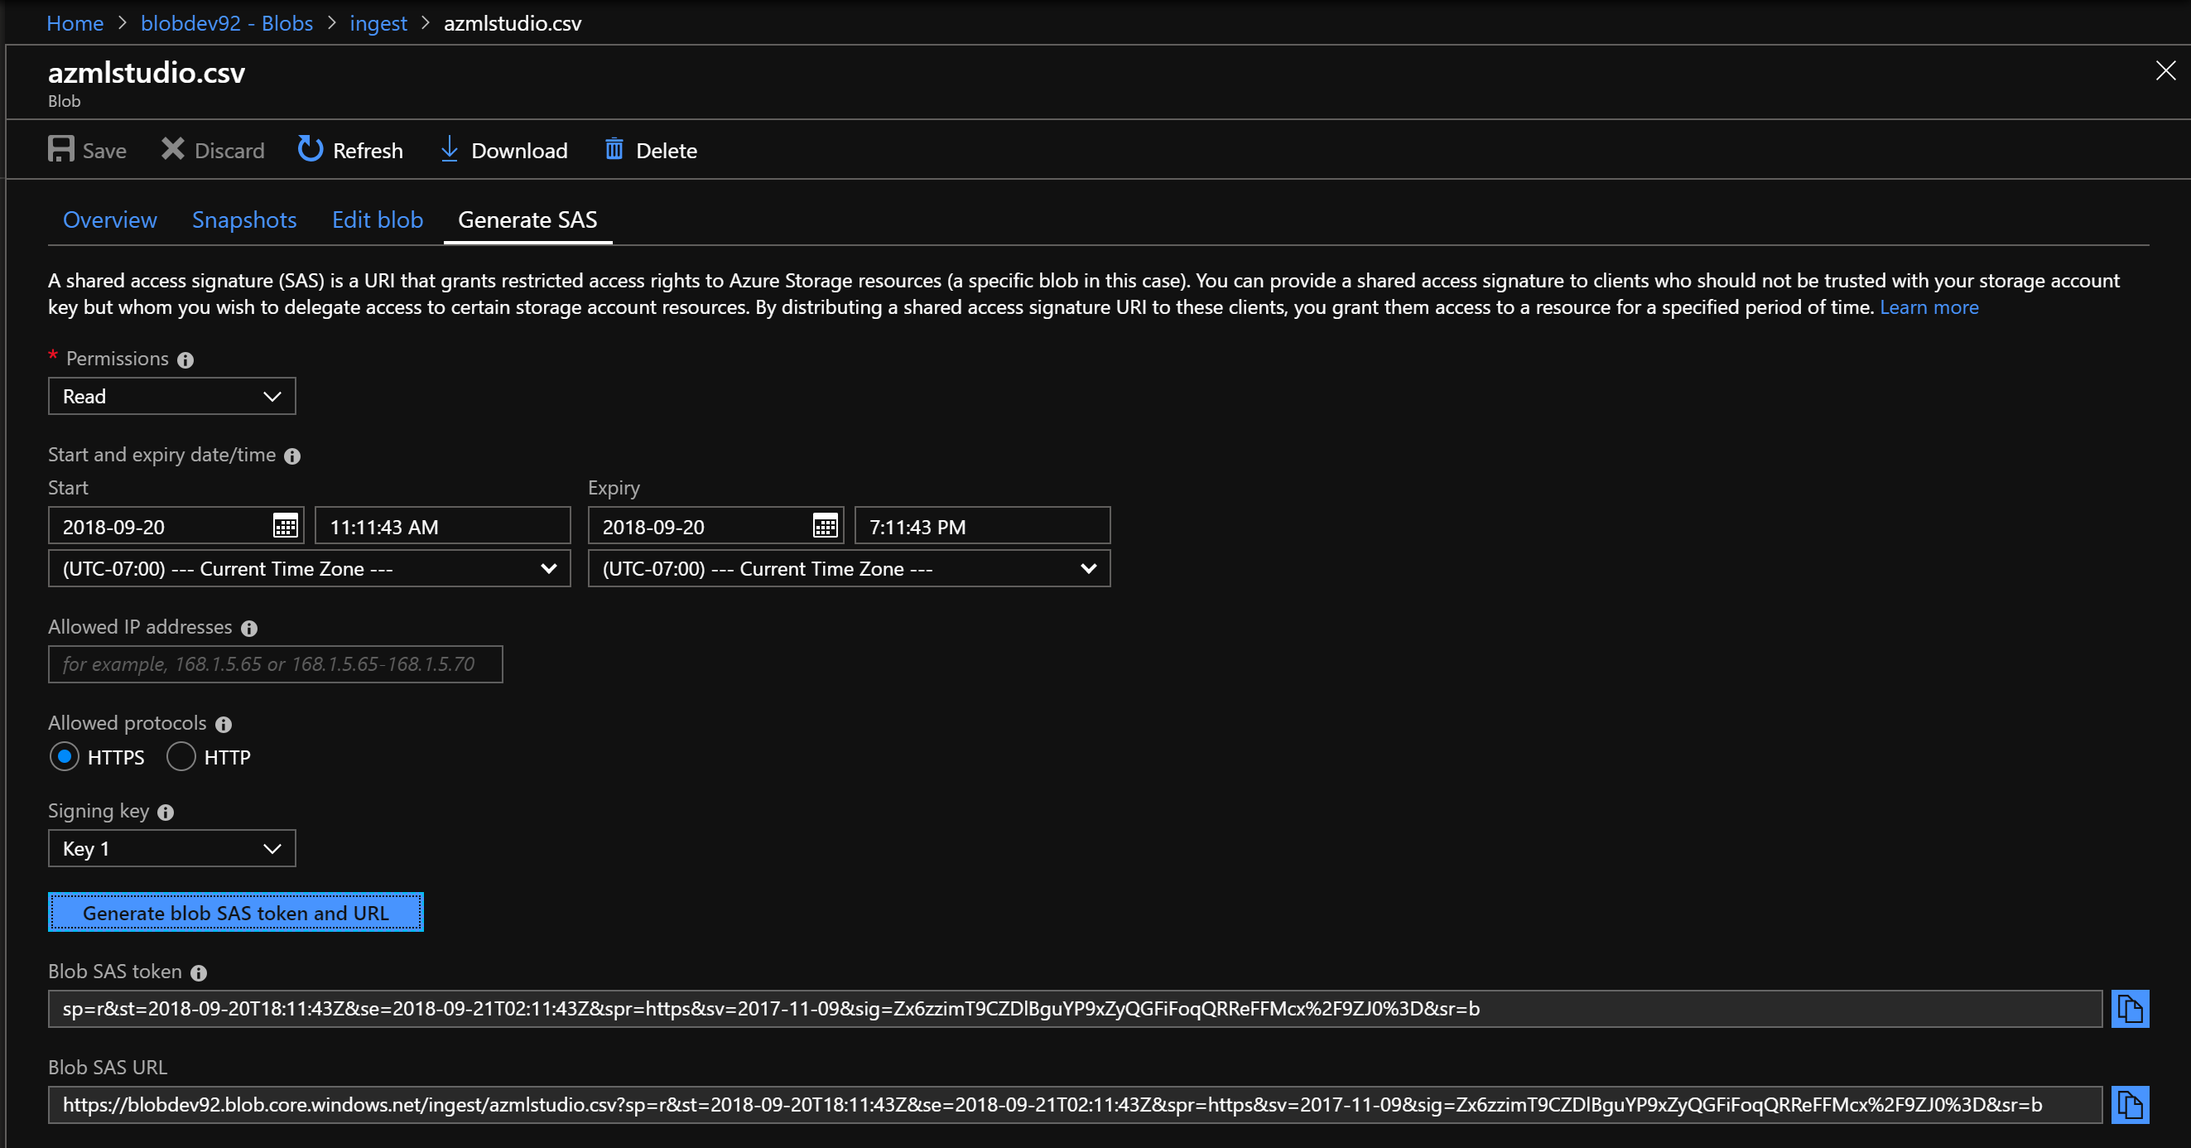
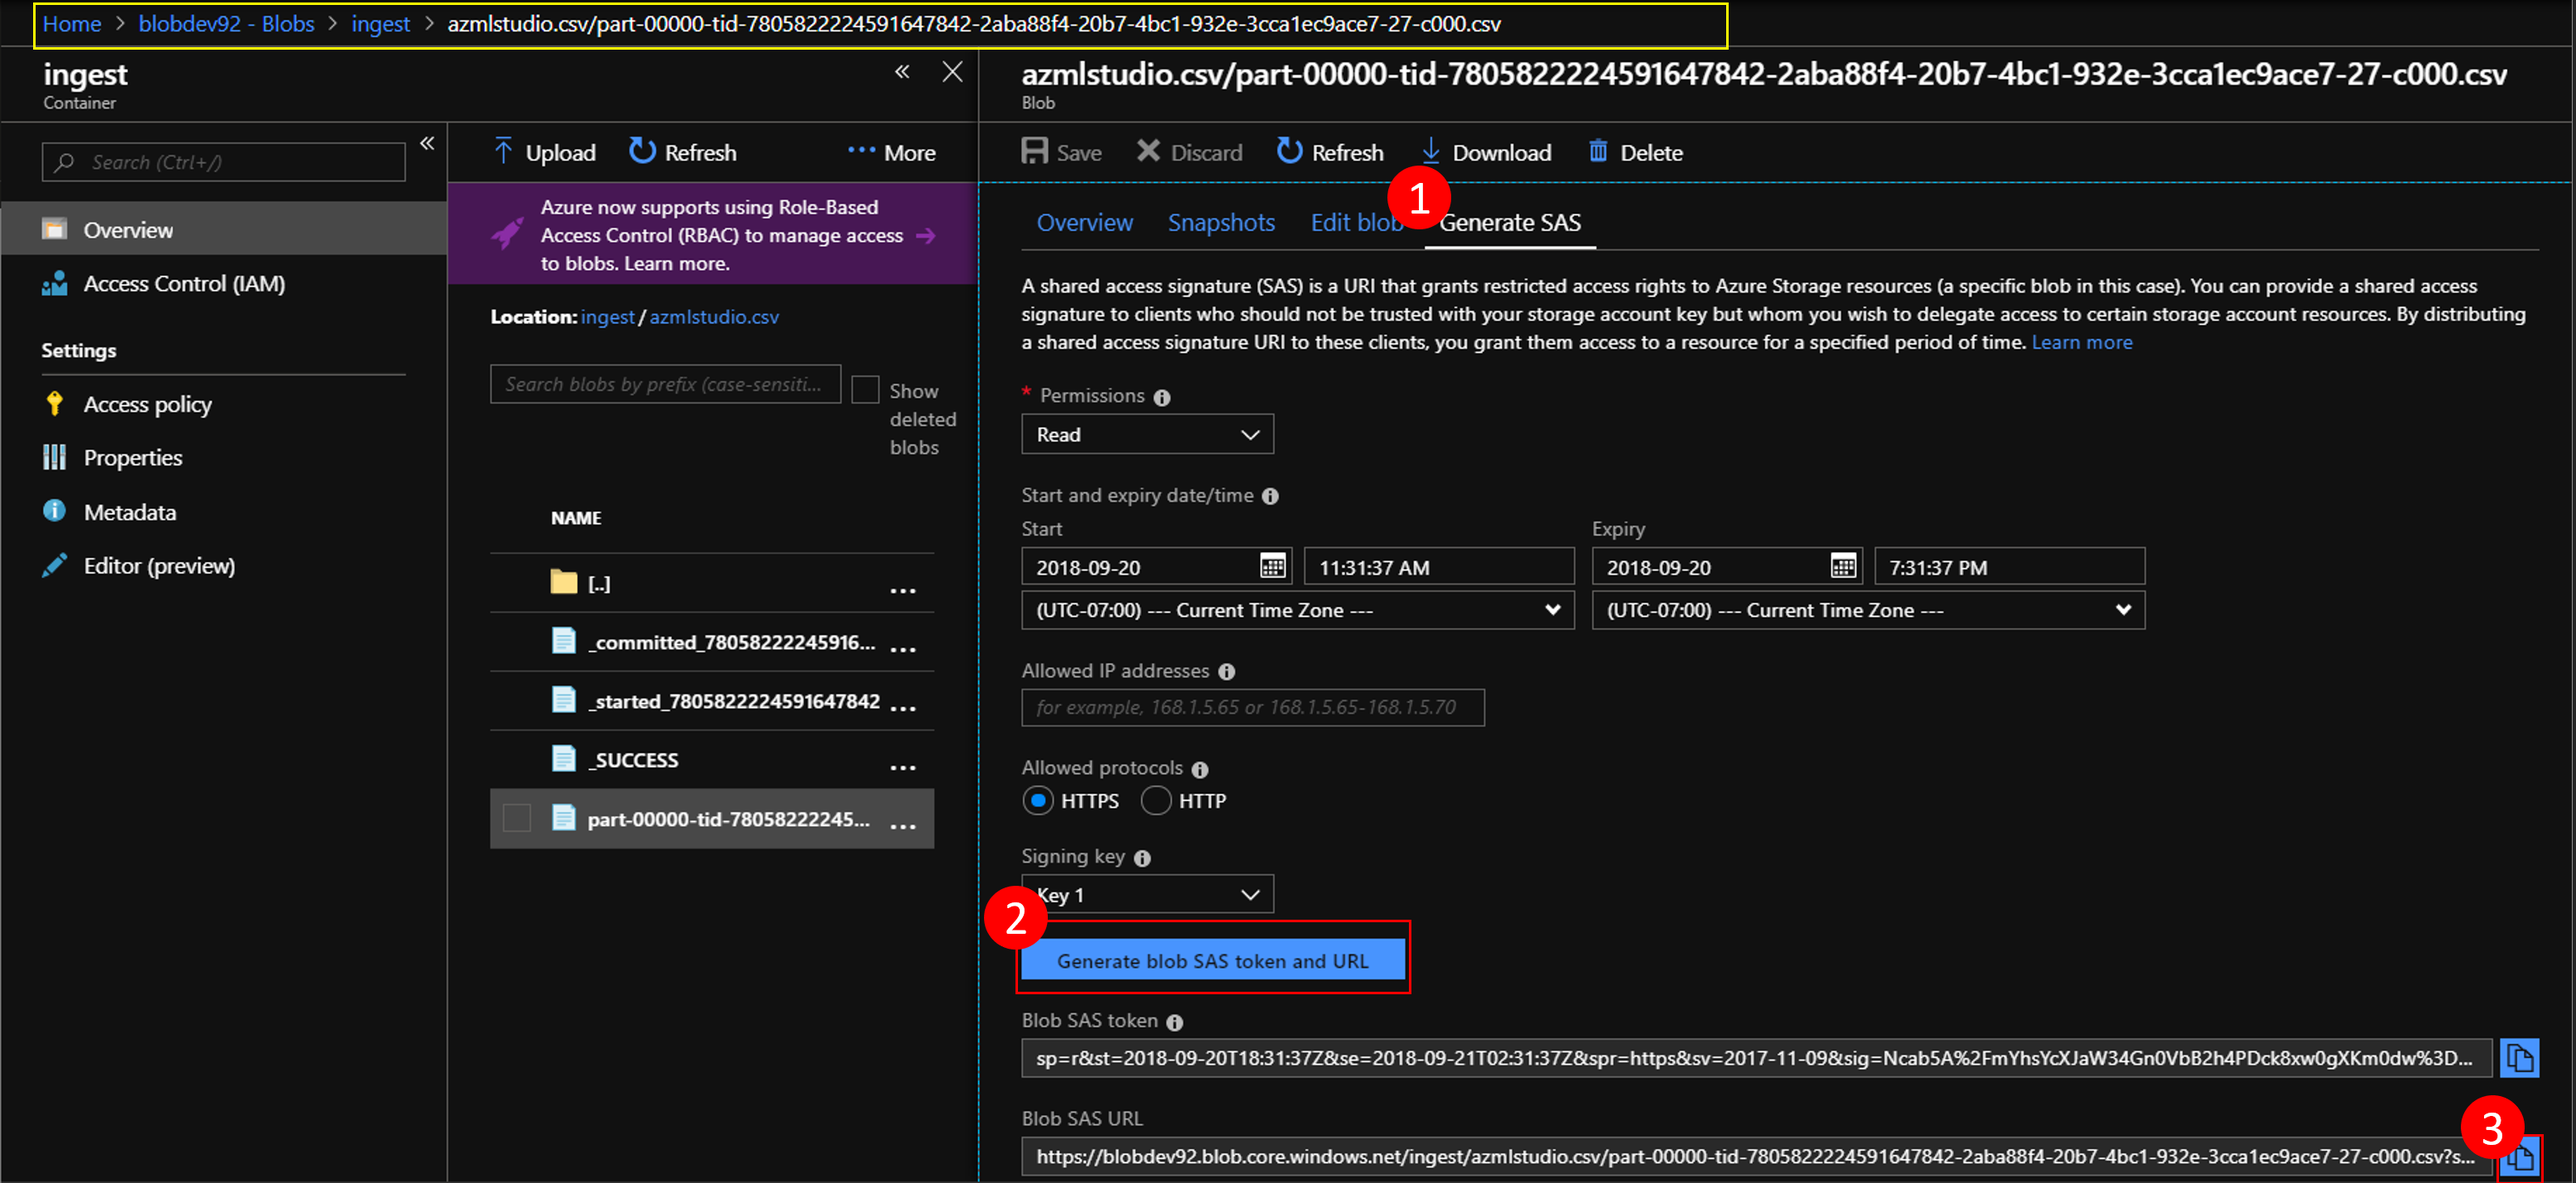
add images for 03

diff --git a/03Modeling.md b/03Modeling.md
@@ -55,28 +55,72 @@ In order to get the dataset url from your blob storage, you need to go to your b
 
 Open new tab (or browser) go to [Azure Portal](https://portal.azure.com)
 
-Go to you blob by searching with name blobdev in the portal
+Go to you blob by searching name of your blob which is similiar as _'blobdev'_
 
 ![searchblob](./images/03.05.01.png)
 
+In order to get save url to access to the dataset, you need to create a SAS url from the portal
 
+Go to your blob storage account and go to container _'ingest'_
+
+> Follow menu from the blob blade, _Blob Service > Blobs > inget > azmlstudio.csv_
+
+To generate SAS, click on the file _'azmlstudio.csv'_, _'Generate SAS'_, _'Generate blob SAS token and URL'_ and then click on _'copy icon'_ at the bottom of the screen
 
 ![searchblob](./images/03.05.02.png)
 
+Come back to Azure Machine Learning Studio
 
 __Search__ _import_ from the left search box and __drag and drop__ the import module to canvas
 
+__Click__ on the _'Import Data'_ module
 
+Chage some options in the properties on the left panel
 
-![import](./images/03.06.png)
+|Name|Value|
+|---|---|
+|Data Source|Web URL via HTTP|
+|Data Source URL|_paste url from the blob SAS generater_|
+|Data format|csv|
+|CSV or TSV has header|Check|
+|Use cached resutls|Check|
+
+![import](./images/03.07.png)
+
+__Click__ _'Run'_ button in the bottom of the canvas, then it will download the dataset from blob to Azure ML Studio in a  minute (around 10 sec)
 
 ### 3.3. Understand data
 
+When the running is done, you will see green check mark on your right coner of the canvas
+
+__Right click__ on the port of the module and __click__ on _'Visualize'_
+
+From the visualize you can see summary informatio about the dataset
+
+![import](./images/03.08.png)
+
 ### 3.4. Split data
+
+__Search__ _split Data_ from the left search box and __drag and drop__ the import module to canvas
+
+And __drag__ _bottom port of Import Data module_ __drop__ to _top port of Split Data module_ to link between thoes two module
+
+![import](./images/03.09.png)
+
+Update split ratio in the properites
+
+![import](./images/03.10.png)
+
 
 ### 3.5. Train
 
-### 3.6. Select a Model
+To trian the model we'll use:
+* Two-Calss Logistic Regression
+* Two-Class Boosted Decision Tree
+
+And the label is 'Churn' since we are trying to build a machine learning to predict a customer  churn
+
+![import](./images/03.11.png)
 
 
 ---
